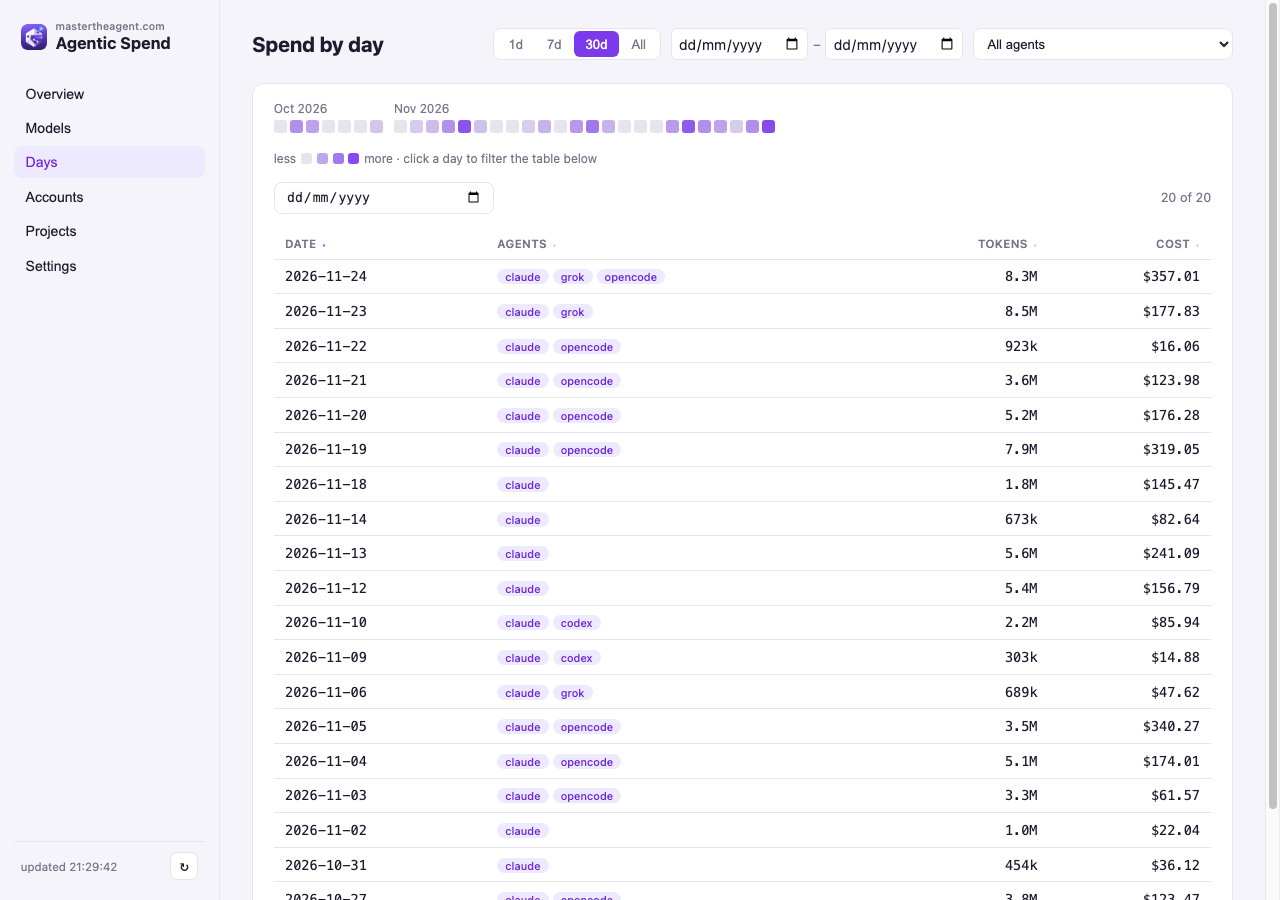
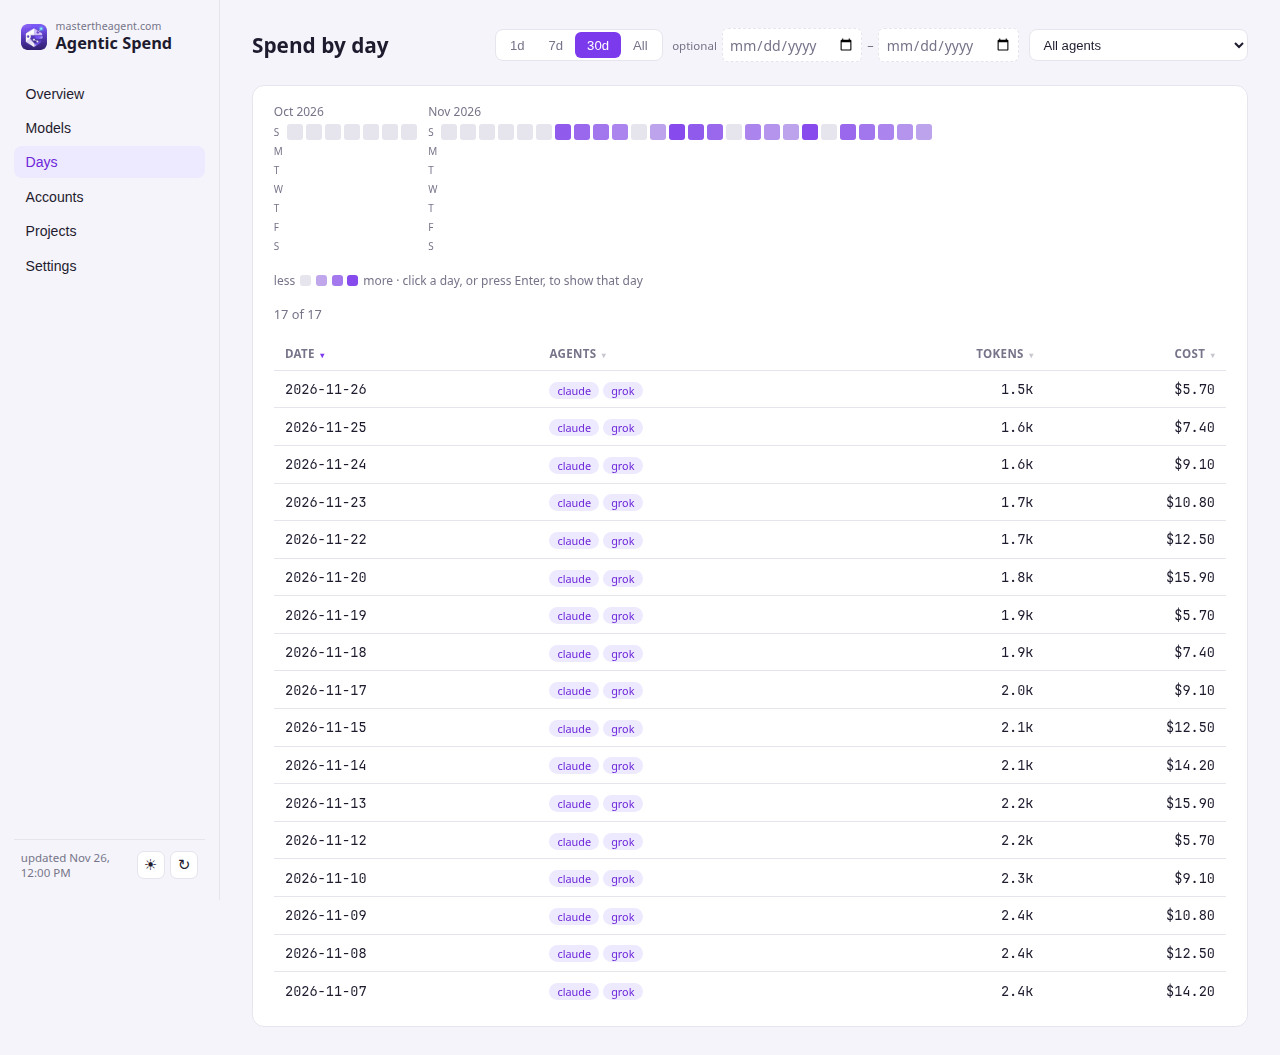
Refresh the sample screenshots and keep the KPI row intact
The six overview tiles stay on one line, with the plan-limit lines
clipped instead of wrapping out of the card. README figures are
sample data only: example names and /home/example paths.

diff --git a/dashboard.html b/dashboard.html
@@ -244,19 +244,18 @@
   .view { display: none; }
   .view.active { display: block; }
 
-  .cards { display: flex; gap: 1rem; flex-wrap: wrap; margin-bottom: 1.2rem; }
+  .cards { display: grid; grid-template-columns: repeat(6, minmax(0, 1fr)); gap: 0.8rem; margin-bottom: 1.2rem; }
   .card {
     background: var(--card);
     border: 1px solid var(--border);
     border-radius: 12px;
     padding: 1.1rem 1.3rem;
   }
-  .kpi { flex: 1; min-width: 150px; }
+  .kpi { min-width: 0; }
   .kpi .label { font-size: 0.72rem; color: var(--muted); text-transform: uppercase; letter-spacing: 0.04em; }
   .kpi .value { font-size: 1.55rem; font-weight: 700; margin-top: 0.3rem; }
   .kpi .sub { font-size: 0.78rem; color: var(--muted); margin-top: 0.15rem; line-height: 1.3; }
-  #kpiPlan { min-width: 190px; }
-  #planUsageSub .clip { display: block; overflow: hidden; text-overflow: ellipsis; white-space: nowrap; max-width: 11.5rem; }
+  #planUsageSub .clip { display: block; overflow: hidden; text-overflow: ellipsis; white-space: nowrap; max-width: 100%; }
 
   .card-head { display: flex; align-items: center; justify-content: space-between; margin-bottom: 0.8rem; }
   .card-head h2 { font-size: 0.95rem; margin: 0; }

diff --git a/README.md b/README.md
@@ -10,23 +10,23 @@ browsed from a phone — there's no mobile layout, and none is planned.
 
 ## Screenshots
 
-(Figures below are from a real run with the account/email placeholdered out.)
+(Figures below are sample data, with example names and paths, not a live account.)
 
 **Overview** — what's actually costing money vs. covered by a subscription:
 
-![Overview](screenshots/overview.png?v=2)
+![Overview](screenshots/overview.png?v=3)
 
 **Days:** a calendar heatmap. Click a day to show that day:
 
-![Days](screenshots/days.png?v=2)
+![Days](screenshots/days.png?v=3)
 
 **Accounts** — real plan-limit usage per Claude account, live from the status line:
 
-![Accounts](screenshots/accounts.png?v=2)
+![Accounts](screenshots/accounts.png?v=3)
 
 **Settings** — every source Agentic Spend found, theme toggle, live-usage setup:
 
-![Settings](screenshots/settings.png?v=2)
+![Settings](screenshots/settings.png?v=3)
 
 ## Prerequisites
 
@@ -140,15 +140,18 @@ match a manual plan note you've saved, the UI flags it rather than silently pref
   money". **Plan limit** is the session/week usage percentage the subscription is actually bound
   by, for a named account, with that session's and week's reset times. It sits next to the
   list-price figures because a subscription caps usage by a session/week multiplier, which is a
-  different kind of number from a dollar amount. A cached plan-limit reading is labelled `cached`,
-  with the time it was read. Avg/day is list price divided by calendar days in the range, with the
-  average of days that had spend as a secondary figure when that differs. Avg/day and Peak day hide
-  themselves on a 1-day range, where they would repeat the list-price total.
+  different kind of number from a dollar amount. The tile follows the header filter: a Claude
+  account shows that account, Codex shows Codex's own window, and any other tool says it is not
+  applicable. A cached plan-limit reading is labelled `cached`, with the time it was read. The
+  Tokens tile is input plus output, excluding cache. Avg/day is list price divided by calendar
+  days in the range, with the average of days that had spend as a secondary figure when that
+  differs. Avg/day and Peak day hide themselves on a 1-day range, where they would repeat the
+  list-price total. Picking a past day also hides the Today tile, so that number is not read as
+  the day you picked.
 - **Hourly spend:** Claude's bars come from `ccusage blocks -n 1`, grouped by each request's own
   timestamp, so a past hour is final rather than drifting forward as a long session keeps running.
   Every other tool only has a session's last-active moment to go on, so those bars can still move.
-  Hourly data is collected for today. Choosing an earlier day still shows today's hourly chart,
-  with a note that it is today and not the day you picked.
+  Hourly data is collected for today only. Choosing an earlier day hides the hourly card.
 - **Cache efficiency** and **Where tokens went today** sit side by side, and each says which
   window it uses. Cache efficiency follows the selected range: uncached input / cache write /
   cache read / output, straight from fields ccusage already provides in `modelBreakdowns`. Where
@@ -157,15 +160,20 @@ match a manual plan note you've saved, the UI flags it rather than silently pref
   for this). It reads the raw transcripts directly, not ccusage, tokens only, since there is no
   pricing per bucket.
 - **Days** has a token count alongside cost for every date, with a breakdown (real vs. including
-  cache) on hover, and a native date picker to jump straight to one. Clicking a heatmap cell, a
-  table row, the peak-day date, or a daily bar sets that one day as the range.
+  cache) on hover. Clicking a heatmap cell, a table row, the peak-day date, or a daily bar sets
+  that one day as the range and shows a "Showing 24 Nov 2026" chip. Back returns to the previous
+  range. The header dates are the only date control. Spend by account uses the same header filter
+  as Daily spend.
 - **Projects** (its own tab, next to Accounts): spend per repo, using each session's real working
   directory as recorded in its own transcript. Claude-only, same scope as Accounts. Long paths are
   shortened (home becomes `~`, the middle collapses) and the full path stays on the tooltip. The
   account menu filters this tab the same way it filters Overview.
-- **Account names:** an account that still has no name can be named from its Accounts card or the
-  Settings table. The name is saved on this machine in `account-labels.json` (see
-  `account-labels.json.example`). It is not written into source.
+- **Account names:** an account that still has no name can be named from its Accounts card, from
+  its estimate row on Overview, or from the Settings table. A named account can still be renamed
+  from its card. The name is saved on this machine in `account-labels.json` (see
+  `account-labels.json.example`). It is not written into source. The sidebar has the theme toggle
+  and an "updated" time taken from the server. If a refresh fails, that stamp says the figure is
+  cached.
 - **Plan usage over time** (on the Accounts page) — a chart of the 5h/weekly/30-day window
   percentage, not just the current reading. Claude's history accumulates going forward from the
   status line; Codex's is backfilled for real from its own rollout files, which already carry a
